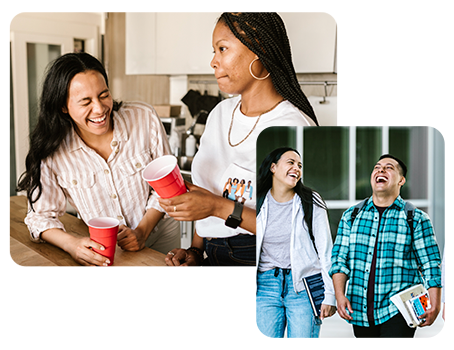
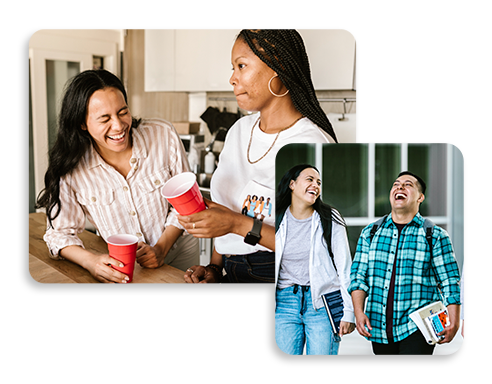
alteração sessão 2

diff --git a/index.html b/index.html
@@ -14,7 +14,6 @@
       rel="stylesheet"
     />
     <!-- font -->
-    
   </head>
 
   <body>
@@ -34,18 +33,45 @@
     </header>
 
     <main>
-      <div class="main">
-        <div class="main-section">
-          <div class="l-section">
-            <h1>As melhores memórias começam aqui.</h1>
-            <p>
-              Na F4Life oferecemos aluguéis de repúblicas para pessoas
-              universitárias.
-            </p>
-          </div>
-          <div class="r-section">
-            <img src="./src/colagem.png" alt="Jovens felizes" />
-          </div>
+      <div class="section">
+        <div class="container">
+        <div class="l-section">
+          <h1>As melhores memórias começam aqui.</h1>
+          <p>
+            Na F4Life oferecemos aluguéis de repúblicas para universitários.
+          </p>
+        </div>
+        <div class="r-section">
+          <img src="./src/colagem.png" alt="Jovens felizes" />
+        </div>
+                  
+      </div>
+
+      </div>
+
+      <div class="section" id="container2">
+        <div class="l-section">
+          <img src="./src/republica.png" alt="Jovens estudando">
+        </div>
+        <div class="r-section">
+          <h1 id="titulo-container2">Prático para todos </h1>
+          <table id="tabela-precos">
+            <tr>
+              <th>Quartos</th>
+              <th>M²</th>
+              <th>Valor</th>
+            </tr>
+            <tr>
+              <td>5</td>
+              <td>80m²</td>
+              <td>R$ 600,00</td>
+            </tr>
+            <tr>
+              <td>5</td>
+              <td>80m²</td>
+              <td>R$ 600,00</td>
+            </tr>
+          </table>
         </div>
       </div>
     </main>

diff --git a/style.css b/style.css
@@ -36,14 +36,20 @@ nav p{
 
 main{
   grid-row: 2/3;
-  padding: 2rem 5rem;
 
 }
 
-.main-section{
+.section{
+  display: flex;
+}
+
+
+.container{
   display: grid;
-  height: 400px;
+  height: 600px;
   grid-template-columns: 1fr 1fr;
+  padding: 2rem 5rem;
+
 }
 
 .l-section{
@@ -58,19 +64,50 @@ main{
   grid-column: 2/3;
   display: flex;
   justify-content: center;
+  flex-direction: column;
   align-items: center;
 }
 
-img{
-  box-shadow: 2px 2px 5px ;
-}
 
 .l-section h1{
   color: #00DBD4;
-  font-weight: 900;
+  font-weight: 800;
 }
 
+#container2{
+  background-color: #F5F5F5;
+  display: grid;
+  grid-template-columns: 1fr 1fr;
+  justify-items: center;
+  align-items: center;
+}
 
+#container2 img{
+  height: 100%;
+}
+
+#titulo-container2{
+  margin-bottom: 1.5rem;
+}
+
+#tabela-precos{
+  background-color: antiquewhite;
+}
+
+#tabela-precos tr{
+  height: 30px;
+}
+
+#tabela-precos th{
+
+  border: 1px solid black;
+}
+
+#tabela-precos td{
+  border: 1px solid black;
+  width: 90px;
+text-align: center;
+}
 
 
 footer{
